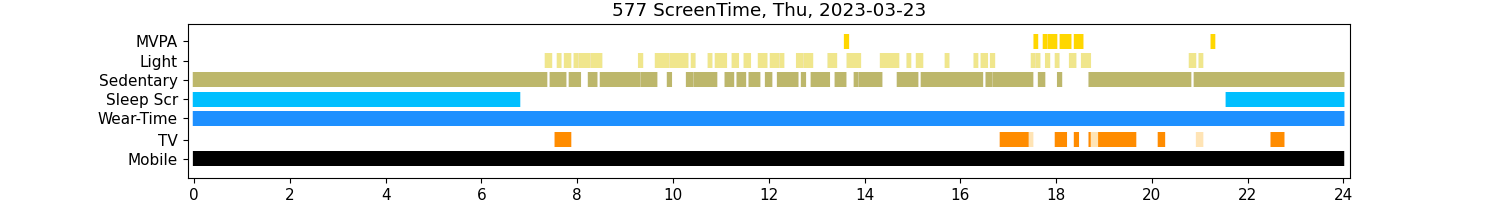
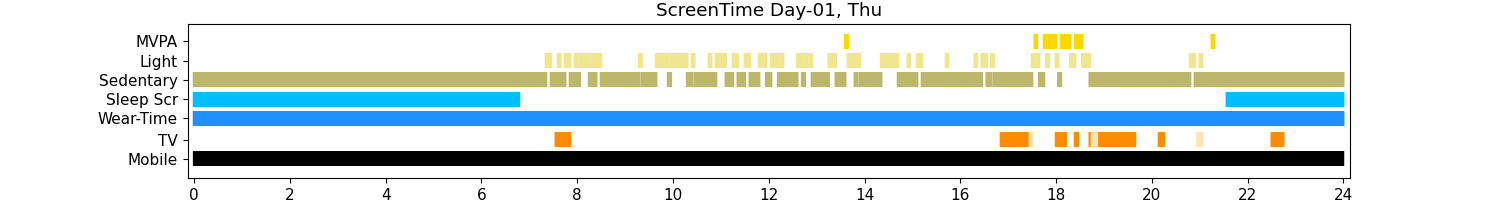
old changes

Changed region(s): [[0.3987, 0.0, 0.6133, 0.09]]

diff --git a/plot_tv_mobile_pa_v0_study4.py b/plot_tv_mobile_pa_v0_study4.py
@@ -46,8 +46,11 @@ ppts.sort()
 
 #ppts_int = [int(p) for p in ppts]
 #ppts[:1]
-for ppt in ['597']:
-
+for ppt in ['568']: #mobile_details['ppt_id']:
+    #if ppt == 567:
+    #    continue
+    #ppt = str(ppt)
+    
     ###### TV DATA    
     # read yaml
     with open('%s/%s/%s_tv_info.yaml'%(path,ppt,ppt)) as stream:
@@ -133,7 +136,7 @@ for ppt in ['597']:
         
         
         # plot the bar graphs
-        title = '%s ScreenTime, %s, %s'%(ppt, date.day_name()[:3], date.date())
+        title = 'ScreenTime Day-%02d, %s'%(day+1, date.day_name()[:3])
         fname = '%s ScreenTime, %s'%(ppt, date.date())
         matplotlib.rcParams['font.size'] = 11.0
         #fig, ax = plt.subplots(1, 1)
